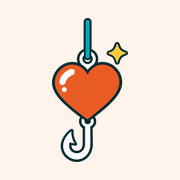
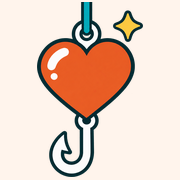
App 圖示放大：愛心魚餌更滿版
- 主圖示、Apple 圖示、1024 圓角版：愛心與魚鉤放大到接近滿版，上方藍色釣線裁掉一小段
- 自適應（maskable）圖示也放大，仍保留在安全範圍內
- favicon 只保留短短一截釣線，小尺寸更清楚
- 圖示網址加上版本參數，讓手機重新抓新圖示

Claude-Session: https://claude.ai/code/session_01TfsCMMS1EukxMS38GiAAfD

Changed region(s): [[0.1944, 0.0, 0.8056, 1.0]]

diff --git a/index.html b/index.html
@@ -11,8 +11,8 @@
 <meta name="apple-mobile-web-app-status-bar-style" content="default">
 <meta name="apple-mobile-web-app-title" content="今天餵誰">
 <link rel="manifest" href="manifest.json">
-<link rel="icon" type="image/png" sizes="32x32" href="icons/favicon-32.png">
-<link rel="apple-touch-icon" href="icons/apple-touch-icon-180.png">
+<link rel="icon" type="image/png" sizes="32x32" href="icons/favicon-32.png?v=2">
+<link rel="apple-touch-icon" href="icons/apple-touch-icon-180.png?v=2">
 <link rel="preconnect" href="https://fonts.googleapis.com">
 <link rel="preconnect" href="https://fonts.gstatic.com" crossorigin>
 <link rel="stylesheet" href="https://fonts.googleapis.com/css2?family=Chiron+GoRound+TC:wght@400;700&family=Noto+Sans+TC:wght@400;500;700;900&display=swap">
